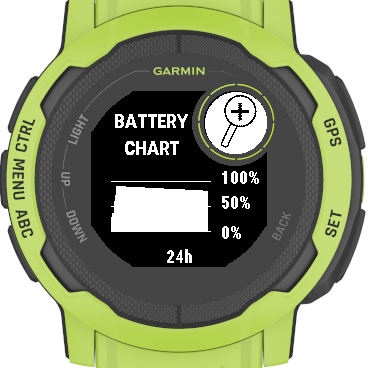
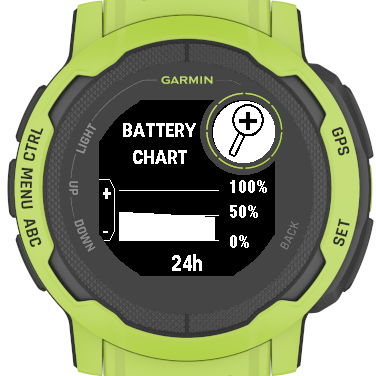
update README and screenshots

diff --git a/README.md b/README.md
@@ -21,6 +21,7 @@ The prediction is rather pessimistic, so it will always floor decimal results (a
 ## Screenshots
 ![glance](screenshots/glance.png)
 ![battery chart](screenshots/battery-chart.png)
+![battery chart 14days](screenshots/battery-chart-14d.png)
 ![details 15min](screenshots/details-15min.png)
 ![details 21h](screenshots/details-21h.png)
 
@@ -28,6 +29,7 @@ The prediction is rather pessimistic, so it will always floor decimal results (a
 ## Usage
 - add the app to your glance carousel
 - in the glance view press the GPS button to view the battery graph
+- in the graph view use the UP/DOWN buttons to cycle through the different time periods
 - in the graph view press the GPS button to view details of different time periods
 - in the details view use the UP/DOWN buttons to cycle through the different time periods
 
